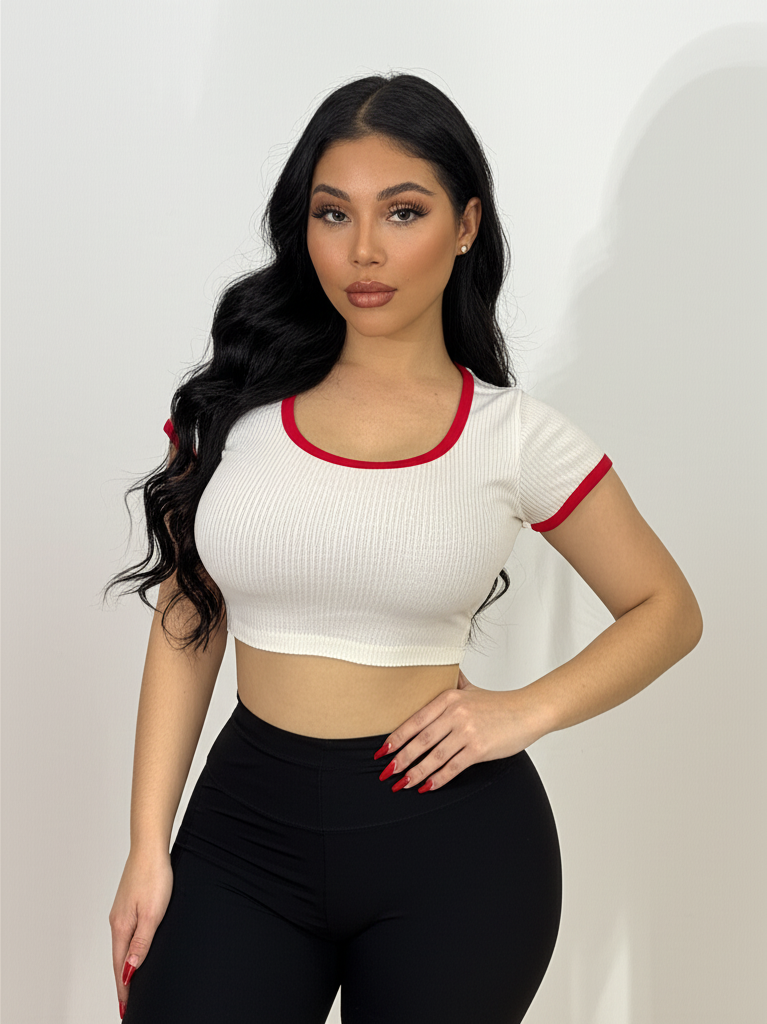
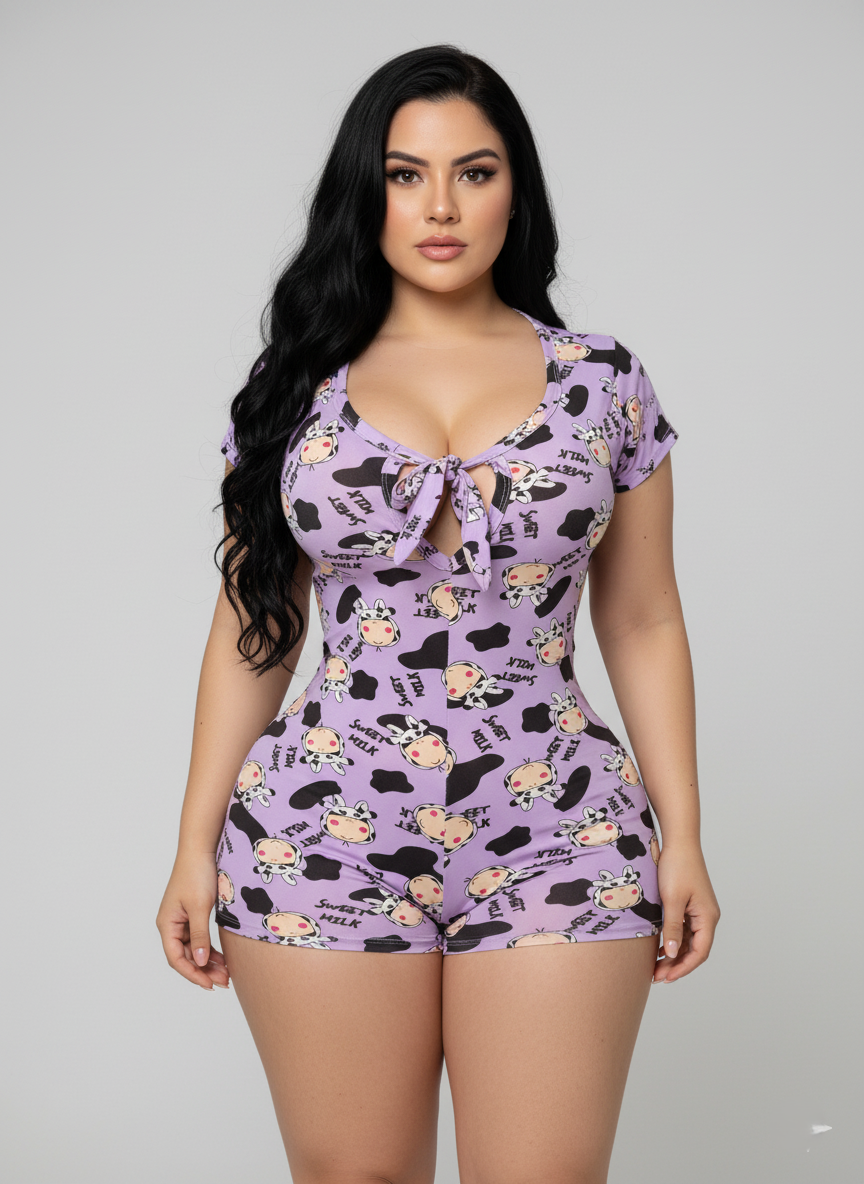
se agrega img

diff --git a/index.html b/index.html
@@ -156,7 +156,7 @@
      <h3>Ref 3316XL</h3>
      <p>Mayorista desde $2'500.000</p>
      <a href="producto.html?id=16" class="btn">Ver producto</a>
-   </div>e
+   </div>
 
   <!-- Producto 17 -->
    <div class="product">
